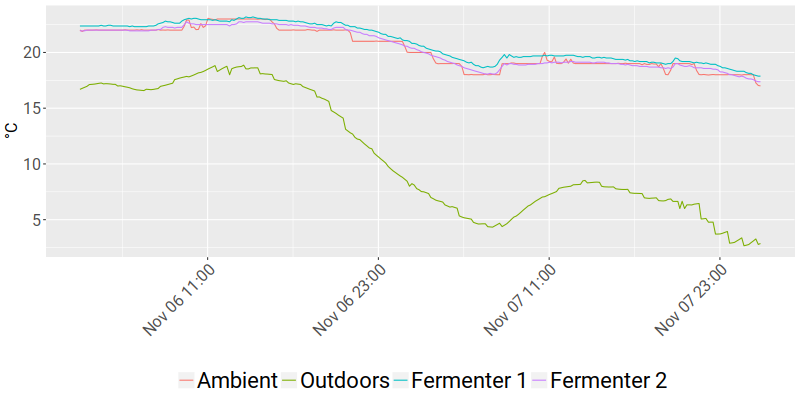
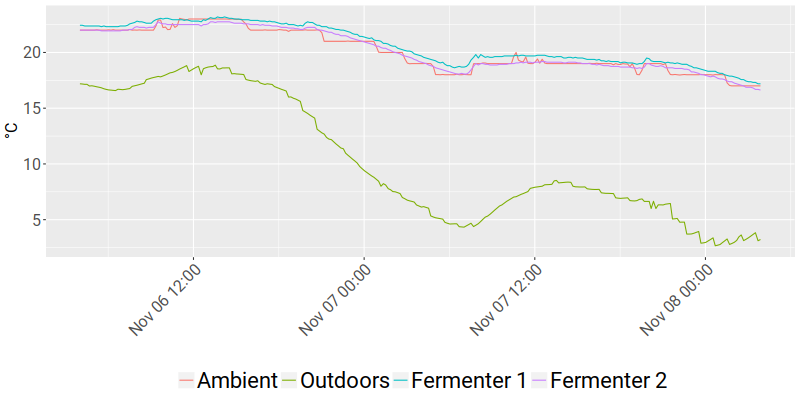
Update live temperature on site

diff --git a/temperature.js b/temperature.js
@@ -1,1 +1,1 @@
-document.write("<h4>Inside Temperature: 17.0°C</h4><h4>Outside Temperature: 2.86°C</h4><h4>Fermenter 1 Temperature: 17.88°C</h4><h4>Fermenter 2 Temperature: 17.38°C</h4><h4>Inside Humidity: 51.51%</h4><h4>Outside Humidity: 92.0%</h4><br>Last update: 2017-11-08 01:51:02");
+document.write("<h4>Inside Temperature: 17.0°C</h4><h4>Outside Temperature: 3.22°C</h4><h4>Fermenter 1 Temperature: 17.19°C</h4><h4>Fermenter 2 Temperature: 16.63°C</h4><h4>Inside Humidity: 50.72%</h4><h4>Outside Humidity: 89.0%</h4><br>Last update: 2017-11-08 03:52:12");
